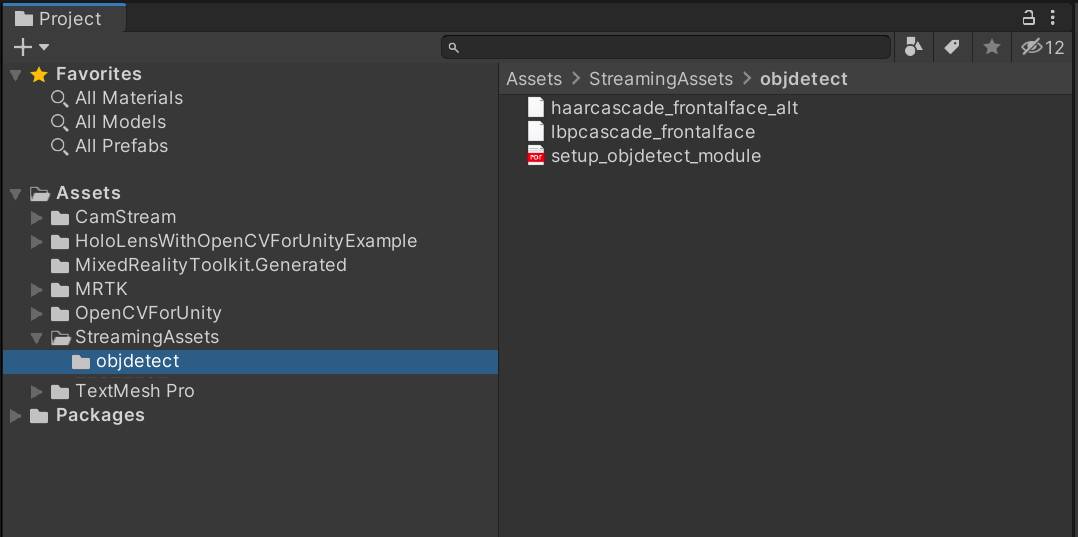
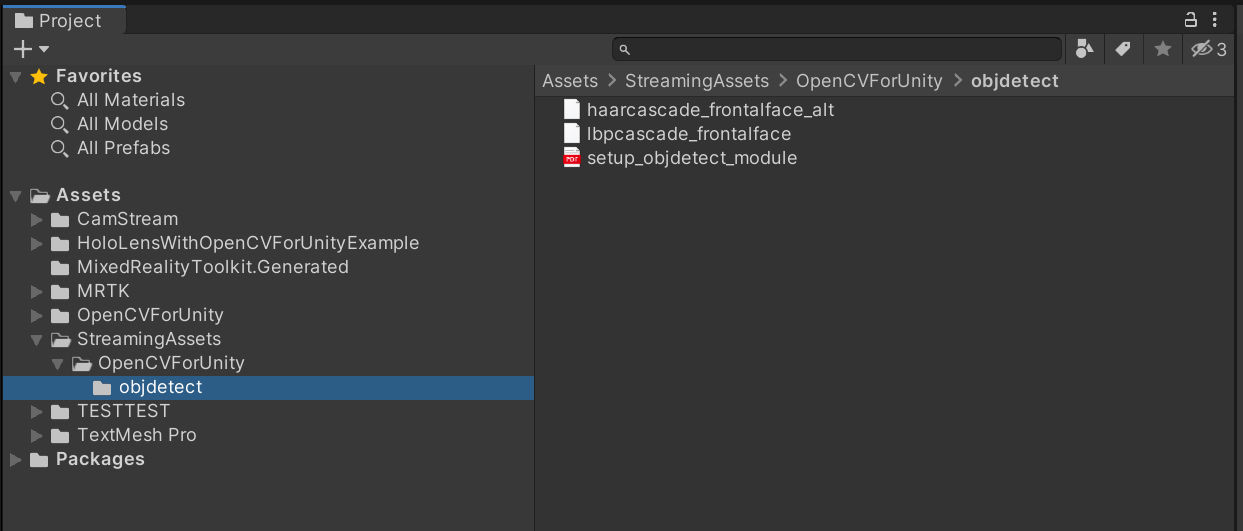
v1.0.6 update OpenCVForUnity version to 2.5.0.

Changed region(s): [[0.0, 0.3315, 0.4592, 0.8738], [0.398, 0.0, 1.0, 1.0], [0.0, 0.0, 0.1837, 0.3013]]

diff --git a/Assets/HoloLensWithOpenCVForUnityExample/HLFaceDetectionExample/HLFaceDetectionExample.cs b/Assets/HoloLensWithOpenCVForUnityExample/HLFaceDetectionExample/HLFaceDetectionExample.cs
@@ -250,24 +250,24 @@ namespace HoloLensWithOpenCVForUnityExample
 
 
             cascade = new CascadeClassifier();
-            cascade.load(Utils.getFilePath("objdetect/lbpcascade_frontalface.xml"));
+            cascade.load(Utils.getFilePath("OpenCVForUnity/objdetect/lbpcascade_frontalface.xml"));
 #if !WINDOWS_UWP || UNITY_EDITOR
             // "empty" method is not working on the UWP platform.
             if (cascade.empty())
             {
-                Debug.LogError("cascade file is not loaded. Please copy from “OpenCVForUnity/StreamingAssets/objdetect/” to “Assets/StreamingAssets/objdetect/” folder. ");
+                Debug.LogError("cascade file is not loaded. Please copy from “OpenCVForUnity/StreamingAssets/OpenCVForUnity/objdetect/” to “Assets/StreamingAssets/OpenCVForUnity/objdetect/” folder. ");
             }
 #endif
 
             grayMat4Thread = new Mat();
             cascade4Thread = new CascadeClassifier();
-            //cascade4Thread.load(Utils.getFilePath("objdetect/haarcascade_frontalface_alt.xml"));
-            cascade4Thread.load(Utils.getFilePath("objdetect/lbpcascade_frontalface.xml"));
+            //cascade4Thread.load(Utils.getFilePath("OpenCVForUnity/objdetect/haarcascade_frontalface_alt.xml"));
+            cascade4Thread.load(Utils.getFilePath("OpenCVForUnity/objdetect/lbpcascade_frontalface.xml"));
 #if !WINDOWS_UWP || UNITY_EDITOR
             // "empty" method is not working on the UWP platform.
             if (cascade4Thread.empty())
             {
-                Debug.LogError("cascade file is not loaded. Please copy from “OpenCVForUnity/StreamingAssets/objdetect/” to “Assets/StreamingAssets/objdetect/” folder. ");
+                Debug.LogError("cascade file is not loaded. Please copy from “OpenCVForUnity/StreamingAssets/OpenCVForUnity/objdetect/” to “Assets/StreamingAssets/OpenCVForUnity/objdetect/” folder. ");
             }
 #endif
         }
@@ -834,7 +834,7 @@ namespace HoloLensWithOpenCVForUnityExample
         /// </summary>
         public void OnChangeCameraButtonClick()
         {
-            webCamTextureToMatHelper.requestedIsFrontFacing = !webCamTextureToMatHelper.IsFrontFacing();
+            webCamTextureToMatHelper.requestedIsFrontFacing = !webCamTextureToMatHelper.requestedIsFrontFacing;
         }
 
         /// <summary>

diff --git a/Assets/HoloLensWithOpenCVForUnityExample/HLPhotoCaptureExample/HLPhotoCaptureExample.cs b/Assets/HoloLensWithOpenCVForUnityExample/HLPhotoCaptureExample/HLPhotoCaptureExample.cs
@@ -46,7 +46,7 @@ namespace HoloLensWithOpenCVForUnityExample
             faces = new MatOfRect();
 
             cascade = new CascadeClassifier();
-            cascade.load(Utils.getFilePath("objdetect/haarcascade_frontalface_alt.xml"));
+            cascade.load(Utils.getFilePath("OpenCVForUnity/objdetect/haarcascade_frontalface_alt.xml"));
 
 
             var resolutions = PhotoCapture.SupportedResolutions;

diff --git a/Assets/HoloLensWithOpenCVForUnityExample/HLArUcoExample/HLArUcoExample.cs b/Assets/HoloLensWithOpenCVForUnityExample/HLArUcoExample/HLArUcoExample.cs
@@ -976,7 +976,7 @@ namespace HoloLensWithOpenCVForUnityExample
         /// </summary>
         public void OnChangeCameraButtonClick()
         {
-            webCamTextureToMatHelper.requestedIsFrontFacing = !webCamTextureToMatHelper.IsFrontFacing();
+            webCamTextureToMatHelper.requestedIsFrontFacing = !webCamTextureToMatHelper.requestedIsFrontFacing;
         }
 
         /// <summary>

diff --git a/Assets/HoloLensWithOpenCVForUnityExample/HLCameraStreamToMatHelperExample/HLCameraStreamToMatHelperExample.cs b/Assets/HoloLensWithOpenCVForUnityExample/HLCameraStreamToMatHelperExample/HLCameraStreamToMatHelperExample.cs
@@ -383,7 +383,7 @@ namespace HoloLensWithOpenCVForUnityExample
         /// </summary>
         public void OnChangeCameraButtonClick()
         {
-            webCamTextureToMatHelper.requestedIsFrontFacing = !webCamTextureToMatHelper.IsFrontFacing();
+            webCamTextureToMatHelper.requestedIsFrontFacing = !webCamTextureToMatHelper.requestedIsFrontFacing;
         }
 
         /// <summary>

diff --git a/README.md b/README.md
@@ -15,7 +15,7 @@
 * Visual Studio 2019
 * Unity 2019.4.31f1 / 2020.3.38f1
 * [Microsoft Mixed Reality Toolkit](https://github.com/Microsoft/MixedRealityToolkit-Unity/releases) v2.8.2 
-* [OpenCV for Unity](https://assetstore.unity.com/packages/tools/integration/opencv-for-unity-21088?aid=1011l4ehR) 2.4.9+ 
+* [OpenCV for Unity](https://assetstore.unity.com/packages/tools/integration/opencv-for-unity-21088?aid=1011l4ehR) 2.5.0+ 
 * [EnoxSoftware/HoloLensCameraStream](https://github.com/EnoxSoftware/HoloLensCameraStream)
 
 
@@ -24,8 +24,9 @@
 1. Create a new project. (`HoloLensWithOpenCVForUnityExample`)
     * Change the platform to `UWP` in the "Build Settings" window.
 1. Import the OpenCVForUnity.
-    * Setup the OpenCVForUnity. (Tools > OpenCV for Unity > Set Plugin Import Settings)
-    * Move the "OpenCVForUnity/StreamingAssets/objdetect/haarcascade_frontalface_alt.xml" and "OpenCVForUnity/StreamingAssets/objdetect/lbpcascade_frontalface.xml" to the "Assets/StreamingAssets/objdetect/" folder.
+    * Select MenuItem[Tools/OpenCV for Unity/Open Setup Tools].
+    * Click the [Move StreamingAssets Folder] button.
+    * Leave the following files and delete the rest. ("StreamingAssets/OpenCVForUnity/objdetect/haarcascade_frontalface_alt.xml", "lbpcascade_ frontalface.xml")
 1. Clone HoloLensCameraStream repository.
[1 lines of base64/hex data omitted]
 1. Import the Microsoft Mixed Reality Toolkit. (Recommend using [MixedRealityFeatureTool](https://www.microsoft.com/en-us/download/details.aspx?id=102778))
